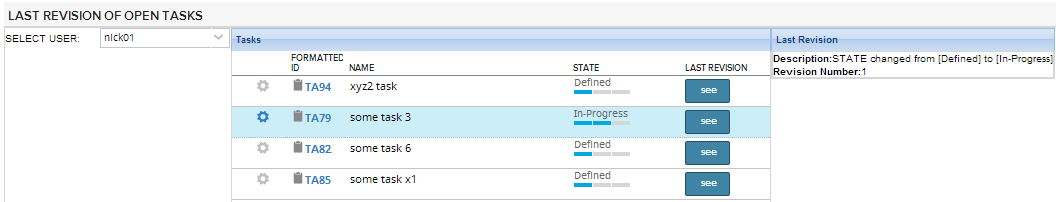
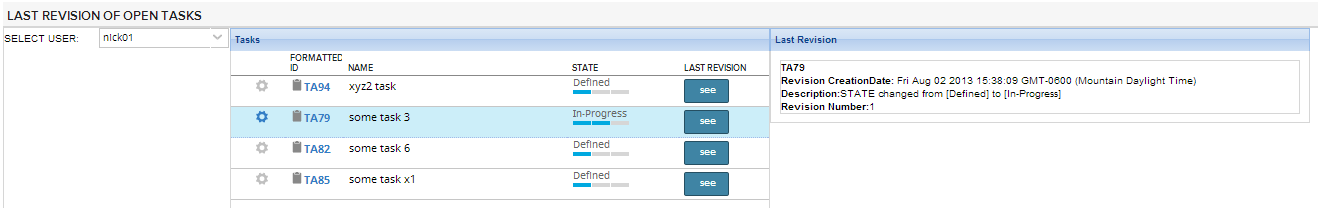
added task FID to rev info

Changed region(s): [[0.0, 0.0297, 1.0, 1.0]]

diff --git a/deploy/App.html b/deploy/App.html
@@ -51,6 +51,7 @@ Ext.define('CustomApp', {
 		    {
                     xtype: 'panel',
                     title: 'Last Revision',
+		    width: 600,
                     itemId: 'childPanel2'
 		    }
                 ],
@@ -60,6 +61,11 @@ Ext.define('CustomApp', {
             this.add(panel);
 	    this.down('#childPanel2').add({
 		id: 'c',
+		padding: 10,
+		maxWidth: 600,
+		maxHeight: 400,
+		overflowX: 'auto',
+		overflowY: 'auto',
 		html: 'No task is selected'
 	    });
         },
@@ -167,8 +173,6 @@ Ext.define('CustomApp', {
     _getRevisionHistory: function(taskList, task) {
 	this._task = task;
 	console.log('_getRevisionHistory');
-		console.log(taskList);
-		console.log(task);
                 this._revisionModel = Rally.data.ModelFactory.getModel({
                     type: 'RevisionHistory',
                     scope: this,
@@ -201,14 +205,16 @@ Ext.define('CustomApp', {
     },
     
     _onRevisionsLoaded: function(revisions, record) {
+	console.log(record);
         var lastRev = _.first(revisions).data;
-	console.log('_onRevisionsLoaded: ',lastRev.Description, lastRev.RevisionNumber );
-	this._displayLastRevision(lastRev.Description,lastRev.RevisionNumber );
+	console.log('_onRevisionsLoaded: ',lastRev.Description, lastRev.RevisionNumber, lastRev.CreationDate );
+	this._displayLastRevision(lastRev.Description,lastRev.RevisionNumber, lastRev.CreationDate );
 	
     },
     
-    _displayLastRevision:function(desc, num){
-	Ext.getCmp('c').update('<b>Description:</b>' + desc + '<br /><b>Revision Number:</b>' + num);
+    _displayLastRevision:function(desc, num, date){
+	
+	Ext.getCmp('c').update('<b>' + this._task.FormattedID + '</b><br/><b>Revision CreationDate: </b>' + date +'<br /><b>Description:</b>' + desc + '<br /><b>Revision Number:</b>' + num + '<br />');
 
     }
 });

diff --git a/src/App.js b/src/App.js
@@ -40,6 +40,7 @@ Ext.define('CustomApp', {
 		    {
                     xtype: 'panel',
                     title: 'Last Revision',
+		    width: 600,
                     itemId: 'childPanel2'
 		    }
                 ],
@@ -49,6 +50,11 @@ Ext.define('CustomApp', {
             this.add(panel);
 	    this.down('#childPanel2').add({
 		id: 'c',
+		padding: 10,
+		maxWidth: 600,
+		maxHeight: 400,
+		overflowX: 'auto',
+		overflowY: 'auto',
 		html: 'No task is selected'
 	    });
         },
@@ -156,8 +162,6 @@ Ext.define('CustomApp', {
     _getRevisionHistory: function(taskList, task) {
 	this._task = task;
 	console.log('_getRevisionHistory');
-		console.log(taskList);
-		console.log(task);
                 this._revisionModel = Rally.data.ModelFactory.getModel({
                     type: 'RevisionHistory',
                     scope: this,
@@ -190,14 +194,16 @@ Ext.define('CustomApp', {
     },
     
     _onRevisionsLoaded: function(revisions, record) {
+	console.log(record);
         var lastRev = _.first(revisions).data;
-	console.log('_onRevisionsLoaded: ',lastRev.Description, lastRev.RevisionNumber );
-	this._displayLastRevision(lastRev.Description,lastRev.RevisionNumber );
+	console.log('_onRevisionsLoaded: ',lastRev.Description, lastRev.RevisionNumber, lastRev.CreationDate );
+	this._displayLastRevision(lastRev.Description,lastRev.RevisionNumber, lastRev.CreationDate );
 	
     },
     
-    _displayLastRevision:function(desc, num){
-	Ext.getCmp('c').update('<b>Description:</b>' + desc + '<br /><b>Revision Number:</b>' + num);
+    _displayLastRevision:function(desc, num, date){
+	
+	Ext.getCmp('c').update('<b>' + this._task.FormattedID + '</b><br/><b>Revision CreationDate: </b>' + date +'<br /><b>Description:</b>' + desc + '<br /><b>Revision Number:</b>' + num + '<br />');
 
     }
 });
